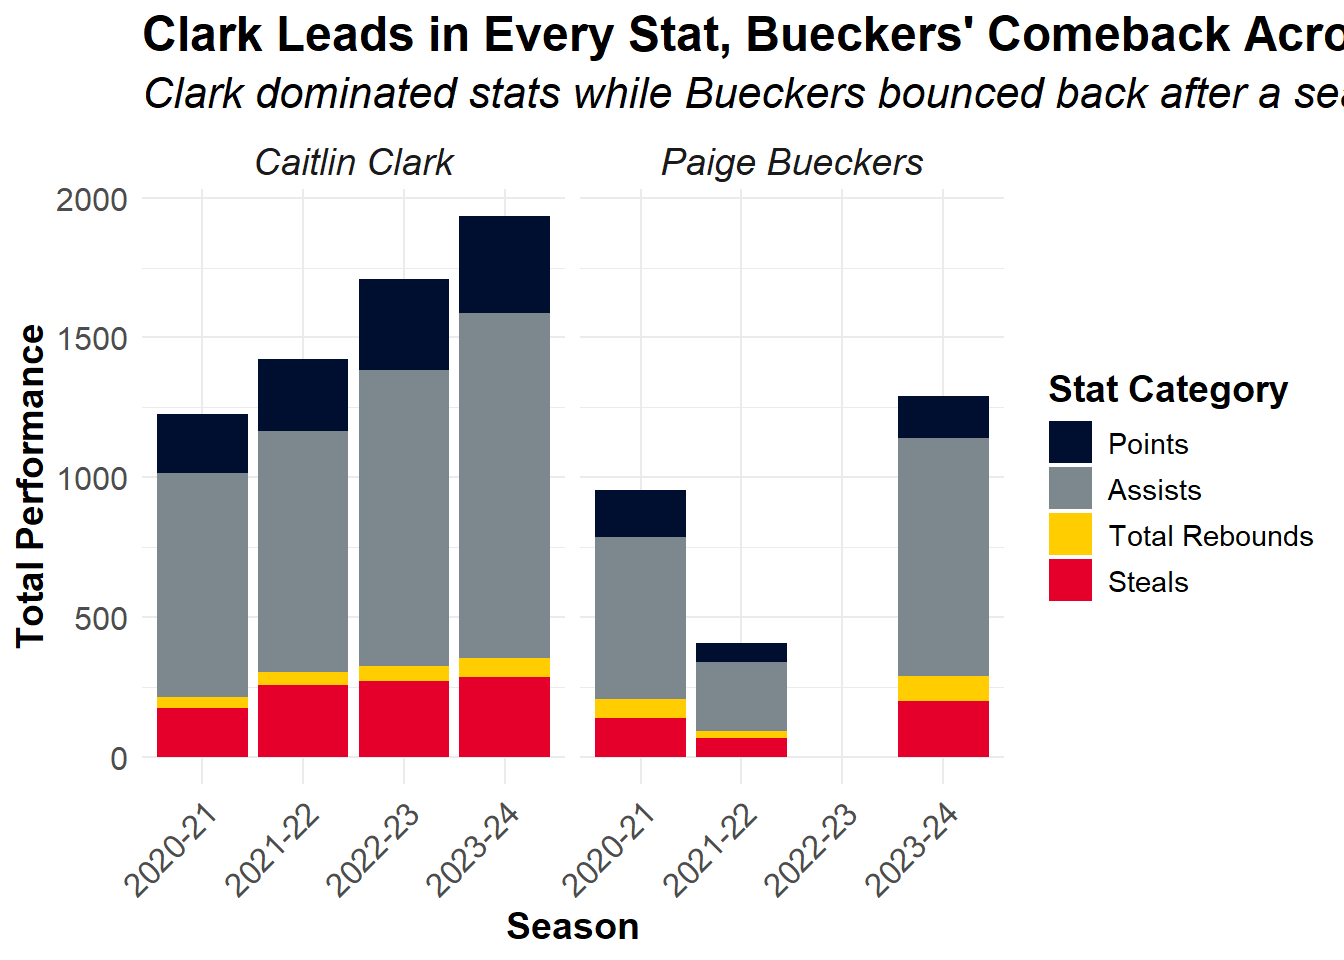
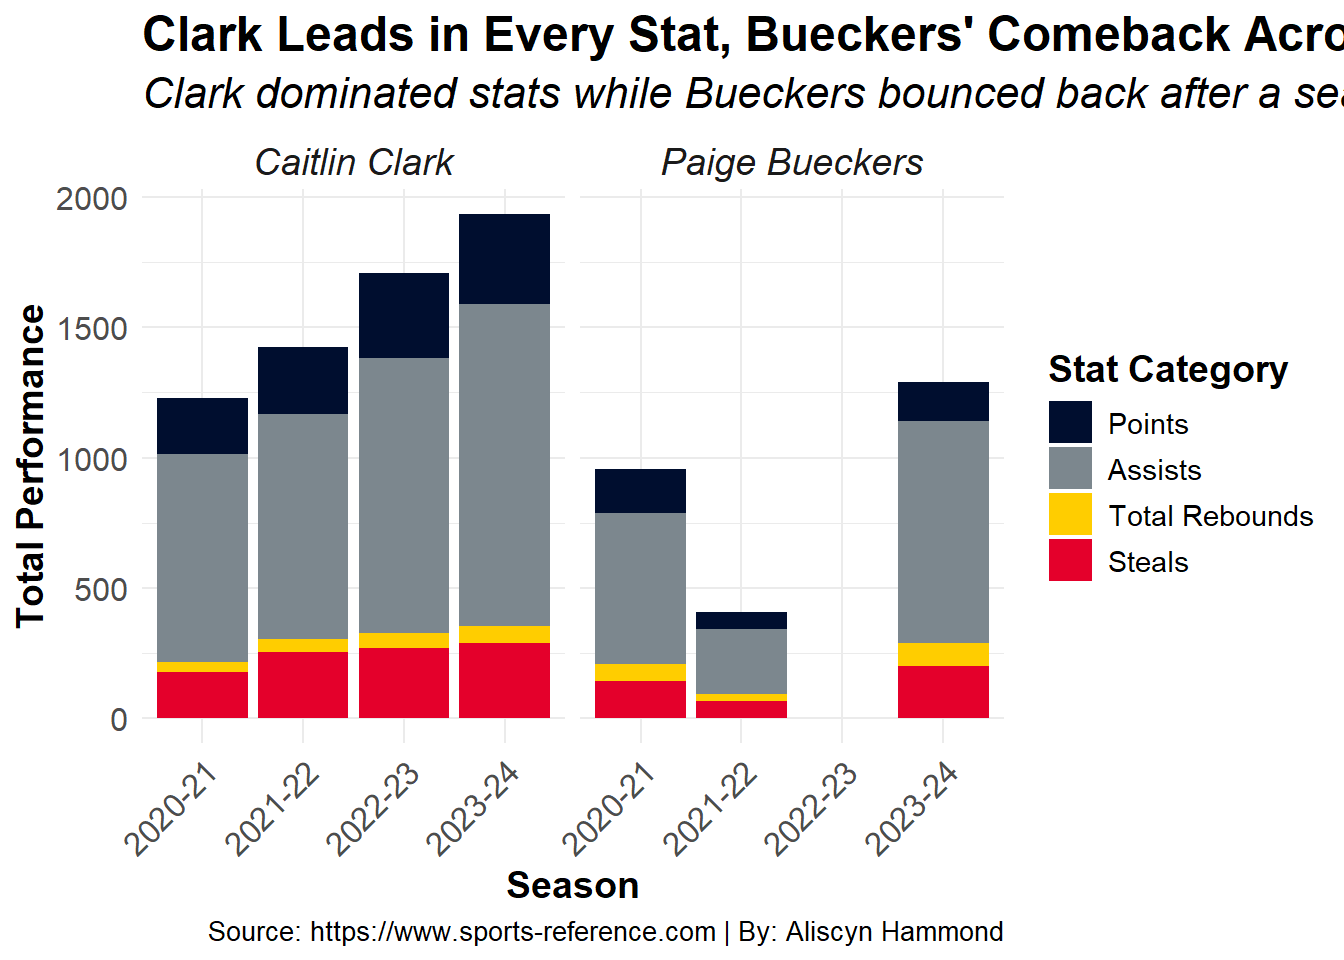
edit a couple things and made third graph

diff --git a/posts/paige_caitlin_basketball/index.html b/posts/paige_caitlin_basketball/index.html
@@ -255,29 +255,31 @@ pre > code.sourceCode > span > a:first-child::before { text-decoration: underlin
 <span id="cb2-7"><a href="#cb2-7" aria-hidden="true" tabindex="-1"></a>  <span class="fu">labs</span>(</span>
 <span id="cb2-8"><a href="#cb2-8" aria-hidden="true" tabindex="-1"></a>    <span class="at">title=</span><span class="st">"Clark Leads in Every Stat, Bueckers' Comeback Across the Board"</span>,</span>
 <span id="cb2-9"><a href="#cb2-9" aria-hidden="true" tabindex="-1"></a>    <span class="at">subtitle=</span><span class="st">"Clark dominated stats while Bueckers bounced back after a season off."</span>,</span>
-<span id="cb2-10"><a href="#cb2-10" aria-hidden="true" tabindex="-1"></a>    <span class="at">x=</span><span class="st">"Season"</span>,</span>
-<span id="cb2-11"><a href="#cb2-11" aria-hidden="true" tabindex="-1"></a>    <span class="at">y=</span><span class="st">"Total Performance"</span>,</span>
-<span id="cb2-12"><a href="#cb2-12" aria-hidden="true" tabindex="-1"></a>    <span class="at">fill=</span><span class="st">"Stat Category"</span></span>
-<span id="cb2-13"><a href="#cb2-13" aria-hidden="true" tabindex="-1"></a>  )<span class="sc">+</span></span>
-<span id="cb2-14"><a href="#cb2-14" aria-hidden="true" tabindex="-1"></a>  <span class="fu">scale_fill_manual</span>(<span class="at">values =</span> <span class="fu">c</span>(<span class="st">"PTS"</span> <span class="ot">=</span> <span class="st">"#7C878E"</span>,</span>
-<span id="cb2-15"><a href="#cb2-15" aria-hidden="true" tabindex="-1"></a>                                <span class="st">"AST"</span> <span class="ot">=</span> <span class="st">"#000e2f"</span>,</span>
-<span id="cb2-16"><a href="#cb2-16" aria-hidden="true" tabindex="-1"></a>                               <span class="st">"TRB"</span> <span class="ot">=</span> <span class="st">"#e4002b"</span>,</span>
-<span id="cb2-17"><a href="#cb2-17" aria-hidden="true" tabindex="-1"></a>                               <span class="st">"STL"</span> <span class="ot">=</span> <span class="st">"#FFCD00"</span>),</span>
-<span id="cb2-18"><a href="#cb2-18" aria-hidden="true" tabindex="-1"></a>                     <span class="at">labels =</span> <span class="fu">c</span>(<span class="st">"Points"</span> ,</span>
-<span id="cb2-19"><a href="#cb2-19" aria-hidden="true" tabindex="-1"></a>                                <span class="st">"Assists"</span>,</span>
-<span id="cb2-20"><a href="#cb2-20" aria-hidden="true" tabindex="-1"></a>                                <span class="st">"Total Rebounds"</span>,</span>
-<span id="cb2-21"><a href="#cb2-21" aria-hidden="true" tabindex="-1"></a>                                <span class="st">"Steals"</span>)) <span class="sc">+</span></span>
-<span id="cb2-22"><a href="#cb2-22" aria-hidden="true" tabindex="-1"></a>  <span class="fu">theme_minimal</span>()<span class="sc">+</span></span>
-<span id="cb2-23"><a href="#cb2-23" aria-hidden="true" tabindex="-1"></a>  <span class="fu">theme</span>(<span class="at">axis.text.x =</span><span class="fu">element_text</span>(<span class="at">angle=</span><span class="dv">45</span>,<span class="at">hjust=</span><span class="dv">1</span>),</span>
-<span id="cb2-24"><a href="#cb2-24" aria-hidden="true" tabindex="-1"></a>        <span class="at">plot.title =</span><span class="fu">element_text</span>(<span class="at">size=</span><span class="dv">18</span>,<span class="at">face=</span><span class="st">"bold"</span>),</span>
-<span id="cb2-25"><a href="#cb2-25" aria-hidden="true" tabindex="-1"></a>        <span class="at">plot.subtitle =</span><span class="fu">element_text</span>(<span class="at">size=</span><span class="dv">16</span>,<span class="at">face=</span><span class="st">"italic"</span>),</span>
-<span id="cb2-26"><a href="#cb2-26" aria-hidden="true" tabindex="-1"></a>        <span class="at">axis.title.x =</span><span class="fu">element_text</span>(<span class="at">size=</span><span class="dv">14</span>,<span class="at">face=</span><span class="st">"bold"</span>),</span>
-<span id="cb2-27"><a href="#cb2-27" aria-hidden="true" tabindex="-1"></a>        <span class="at">axis.title.y =</span><span class="fu">element_text</span>(<span class="at">size=</span><span class="dv">14</span>,<span class="at">face=</span><span class="st">"bold"</span>),</span>
-<span id="cb2-28"><a href="#cb2-28" aria-hidden="true" tabindex="-1"></a>        <span class="at">axis.text =</span><span class="fu">element_text</span>(<span class="at">size=</span><span class="dv">12</span>),</span>
-<span id="cb2-29"><a href="#cb2-29" aria-hidden="true" tabindex="-1"></a>        <span class="at">legend.text =</span><span class="fu">element_text</span>(<span class="at">size=</span><span class="dv">11</span>),</span>
-<span id="cb2-30"><a href="#cb2-30" aria-hidden="true" tabindex="-1"></a>        <span class="at">legend.title =</span><span class="fu">element_text</span>(<span class="at">size=</span><span class="dv">14</span>,<span class="at">face=</span><span class="st">"bold"</span>),</span>
-<span id="cb2-31"><a href="#cb2-31" aria-hidden="true" tabindex="-1"></a>        <span class="at">strip.text=</span><span class="fu">element_text</span>(<span class="at">size=</span><span class="dv">14</span>,<span class="at">face=</span><span class="st">"italic"</span>)</span>
-<span id="cb2-32"><a href="#cb2-32" aria-hidden="true" tabindex="-1"></a>  )</span></code><button title="Copy to Clipboard" class="code-copy-button"><i class="bi"></i></button></pre></div>
+<span id="cb2-10"><a href="#cb2-10" aria-hidden="true" tabindex="-1"></a>    <span class="at">caption=</span><span class="st">"Source: https://www.sports-reference.com | By: Aliscyn Hammond"</span>,</span>
+<span id="cb2-11"><a href="#cb2-11" aria-hidden="true" tabindex="-1"></a>    <span class="at">x=</span><span class="st">"Season"</span>,</span>
+<span id="cb2-12"><a href="#cb2-12" aria-hidden="true" tabindex="-1"></a>    <span class="at">y=</span><span class="st">"Total Performance"</span>,</span>
+<span id="cb2-13"><a href="#cb2-13" aria-hidden="true" tabindex="-1"></a>    <span class="at">fill=</span><span class="st">"Stat Category"</span></span>
+<span id="cb2-14"><a href="#cb2-14" aria-hidden="true" tabindex="-1"></a>  )<span class="sc">+</span></span>
+<span id="cb2-15"><a href="#cb2-15" aria-hidden="true" tabindex="-1"></a>  <span class="fu">scale_fill_manual</span>(<span class="at">values =</span> <span class="fu">c</span>(<span class="st">"PTS"</span> <span class="ot">=</span> <span class="st">"#7C878E"</span>,</span>
+<span id="cb2-16"><a href="#cb2-16" aria-hidden="true" tabindex="-1"></a>                                <span class="st">"AST"</span> <span class="ot">=</span> <span class="st">"#000e2f"</span>,</span>
+<span id="cb2-17"><a href="#cb2-17" aria-hidden="true" tabindex="-1"></a>                               <span class="st">"TRB"</span> <span class="ot">=</span> <span class="st">"#e4002b"</span>,</span>
+<span id="cb2-18"><a href="#cb2-18" aria-hidden="true" tabindex="-1"></a>                               <span class="st">"STL"</span> <span class="ot">=</span> <span class="st">"#FFCD00"</span>),</span>
+<span id="cb2-19"><a href="#cb2-19" aria-hidden="true" tabindex="-1"></a>                     <span class="at">labels =</span> <span class="fu">c</span>(<span class="st">"Points"</span> ,</span>
+<span id="cb2-20"><a href="#cb2-20" aria-hidden="true" tabindex="-1"></a>                                <span class="st">"Assists"</span>,</span>
+<span id="cb2-21"><a href="#cb2-21" aria-hidden="true" tabindex="-1"></a>                                <span class="st">"Total Rebounds"</span>,</span>
+<span id="cb2-22"><a href="#cb2-22" aria-hidden="true" tabindex="-1"></a>                                <span class="st">"Steals"</span>)) <span class="sc">+</span></span>
+<span id="cb2-23"><a href="#cb2-23" aria-hidden="true" tabindex="-1"></a>  <span class="fu">theme_minimal</span>()<span class="sc">+</span></span>
+<span id="cb2-24"><a href="#cb2-24" aria-hidden="true" tabindex="-1"></a>  <span class="fu">theme</span>(<span class="at">axis.text.x =</span><span class="fu">element_text</span>(<span class="at">angle=</span><span class="dv">45</span>,<span class="at">hjust=</span><span class="dv">1</span>),</span>
+<span id="cb2-25"><a href="#cb2-25" aria-hidden="true" tabindex="-1"></a>        <span class="at">plot.title =</span><span class="fu">element_text</span>(<span class="at">size=</span><span class="dv">18</span>,<span class="at">face=</span><span class="st">"bold"</span>),</span>
+<span id="cb2-26"><a href="#cb2-26" aria-hidden="true" tabindex="-1"></a>        <span class="at">plot.subtitle =</span><span class="fu">element_text</span>(<span class="at">size=</span><span class="dv">16</span>,<span class="at">face=</span><span class="st">"italic"</span>),</span>
+<span id="cb2-27"><a href="#cb2-27" aria-hidden="true" tabindex="-1"></a>        <span class="at">axis.title.x =</span><span class="fu">element_text</span>(<span class="at">size=</span><span class="dv">14</span>,<span class="at">face=</span><span class="st">"bold"</span>),</span>
+<span id="cb2-28"><a href="#cb2-28" aria-hidden="true" tabindex="-1"></a>        <span class="at">axis.title.y =</span><span class="fu">element_text</span>(<span class="at">size=</span><span class="dv">14</span>,<span class="at">face=</span><span class="st">"bold"</span>),</span>
+<span id="cb2-29"><a href="#cb2-29" aria-hidden="true" tabindex="-1"></a>        <span class="at">axis.text =</span><span class="fu">element_text</span>(<span class="at">size=</span><span class="dv">12</span>),</span>
+<span id="cb2-30"><a href="#cb2-30" aria-hidden="true" tabindex="-1"></a>        <span class="at">legend.text =</span><span class="fu">element_text</span>(<span class="at">size=</span><span class="dv">11</span>),</span>
+<span id="cb2-31"><a href="#cb2-31" aria-hidden="true" tabindex="-1"></a>        <span class="at">legend.title =</span><span class="fu">element_text</span>(<span class="at">size=</span><span class="dv">14</span>,<span class="at">face=</span><span class="st">"bold"</span>),</span>
+<span id="cb2-32"><a href="#cb2-32" aria-hidden="true" tabindex="-1"></a>        <span class="at">strip.text=</span><span class="fu">element_text</span>(<span class="at">size=</span><span class="dv">14</span>,<span class="at">face=</span><span class="st">"italic"</span>),</span>
+<span id="cb2-33"><a href="#cb2-33" aria-hidden="true" tabindex="-1"></a>        <span class="at">plot.caption =</span> <span class="fu">element_text</span>(<span class="at">size =</span> <span class="dv">10</span>, <span class="at">hjust =</span> <span class="dv">1</span>)</span>
+<span id="cb2-34"><a href="#cb2-34" aria-hidden="true" tabindex="-1"></a>  )</span></code><button title="Copy to Clipboard" class="code-copy-button"><i class="bi"></i></button></pre></div>
 </details>
 <div class="cell-output-display">
 <div>
@@ -288,6 +290,42 @@ pre > code.sourceCode > span > a:first-child::before { text-decoration: underlin
 </div>
 </div>
 <p>##Contribution of (blank)</p>
+<div class="cell">
+<details class="code-fold">
+<summary>Code</summary>
+<div class="sourceCode cell-code" id="cb3"><pre class="sourceCode r code-with-copy"><code class="sourceCode r"><span id="cb3-1"><a href="#cb3-1" aria-hidden="true" tabindex="-1"></a><span class="fu">ggplot</span>(pc,<span class="fu">aes</span>(<span class="at">x=</span>PTS,<span class="at">y=</span>FG.,<span class="at">size=</span>TRB,<span class="at">color=</span>Player))<span class="sc">+</span></span>
+<span id="cb3-2"><a href="#cb3-2" aria-hidden="true" tabindex="-1"></a>  <span class="fu">geom_point</span>(<span class="at">alpha=</span>.<span class="dv">6</span>)<span class="sc">+</span></span>
+<span id="cb3-3"><a href="#cb3-3" aria-hidden="true" tabindex="-1"></a>  <span class="fu">scale_size_continuous</span>(<span class="at">range=</span><span class="fu">c</span>(<span class="dv">2</span>,<span class="dv">10</span>))<span class="sc">+</span></span>
+<span id="cb3-4"><a href="#cb3-4" aria-hidden="true" tabindex="-1"></a>  <span class="fu">labs</span>(</span>
+<span id="cb3-5"><a href="#cb3-5" aria-hidden="true" tabindex="-1"></a>    <span class="at">x=</span><span class="st">"Points Per Game(PPG)"</span>,</span>
+<span id="cb3-6"><a href="#cb3-6" aria-hidden="true" tabindex="-1"></a>    <span class="at">y=</span><span class="st">"Shooting Efficiency(FG%)"</span>,</span>
+<span id="cb3-7"><a href="#cb3-7" aria-hidden="true" tabindex="-1"></a>    <span class="at">title=</span><span class="st">"Bueckers’ Higher Efficiency Outshines Clark’s Scoring Surge"</span>,</span>
+<span id="cb3-8"><a href="#cb3-8" aria-hidden="true" tabindex="-1"></a>    <span class="at">subtitle=</span><span class="st">"Bueckers focused on refining her shooting accuracy, whereas Clark boosted her points per game."</span>,</span>
+<span id="cb3-9"><a href="#cb3-9" aria-hidden="true" tabindex="-1"></a>    <span class="at">caption=</span><span class="st">"Source: https://www.sports-reference.com | By: Aliscyn Hammond"</span></span>
+<span id="cb3-10"><a href="#cb3-10" aria-hidden="true" tabindex="-1"></a>  )<span class="sc">+</span></span>
+<span id="cb3-11"><a href="#cb3-11" aria-hidden="true" tabindex="-1"></a>  <span class="fu">scale_color_manual</span>(<span class="at">values=</span><span class="fu">c</span>(<span class="st">"Paige Bueckers"</span> <span class="ot">=</span><span class="st">"#e4002b"</span>,</span>
+<span id="cb3-12"><a href="#cb3-12" aria-hidden="true" tabindex="-1"></a>                              <span class="st">"Caitlin Clark"</span><span class="ot">=</span><span class="st">"#FFCD00"</span>))<span class="sc">+</span></span>
+<span id="cb3-13"><a href="#cb3-13" aria-hidden="true" tabindex="-1"></a>  <span class="fu">theme_minimal</span>() <span class="sc">+</span></span>
+<span id="cb3-14"><a href="#cb3-14" aria-hidden="true" tabindex="-1"></a>  <span class="fu">theme</span>(</span>
+<span id="cb3-15"><a href="#cb3-15" aria-hidden="true" tabindex="-1"></a>    <span class="at">plot.title =</span> <span class="fu">element_text</span>(<span class="at">size =</span> <span class="dv">18</span>, <span class="at">face =</span> <span class="st">"bold"</span>),</span>
+<span id="cb3-16"><a href="#cb3-16" aria-hidden="true" tabindex="-1"></a>    <span class="at">plot.subtitle =</span> <span class="fu">element_text</span>(<span class="at">size =</span> <span class="dv">15</span>, <span class="at">face =</span> <span class="st">"italic"</span>),</span>
+<span id="cb3-17"><a href="#cb3-17" aria-hidden="true" tabindex="-1"></a>    <span class="at">axis.title.x =</span> <span class="fu">element_text</span>(<span class="at">size =</span> <span class="dv">12</span>),</span>
+<span id="cb3-18"><a href="#cb3-18" aria-hidden="true" tabindex="-1"></a>    <span class="at">axis.title.y =</span> <span class="fu">element_text</span>(<span class="at">size =</span> <span class="dv">12</span>),</span>
+<span id="cb3-19"><a href="#cb3-19" aria-hidden="true" tabindex="-1"></a>    <span class="at">axis.text.x =</span> <span class="fu">element_text</span>(<span class="at">size =</span> <span class="dv">11</span>, <span class="at">hjust =</span> <span class="dv">1</span>),</span>
+<span id="cb3-20"><a href="#cb3-20" aria-hidden="true" tabindex="-1"></a>    <span class="at">axis.text.y =</span> <span class="fu">element_text</span>(<span class="at">size =</span> <span class="dv">11</span>),</span>
+<span id="cb3-21"><a href="#cb3-21" aria-hidden="true" tabindex="-1"></a>    <span class="at">legend.title =</span> <span class="fu">element_text</span>(<span class="at">size =</span> <span class="dv">14</span>, <span class="at">face =</span> <span class="st">"bold"</span>),</span>
+<span id="cb3-22"><a href="#cb3-22" aria-hidden="true" tabindex="-1"></a>    <span class="at">legend.text =</span> <span class="fu">element_text</span>(<span class="at">size =</span> <span class="dv">12</span>),</span>
+<span id="cb3-23"><a href="#cb3-23" aria-hidden="true" tabindex="-1"></a>    <span class="at">plot.caption =</span> <span class="fu">element_text</span>(<span class="at">size =</span> <span class="dv">10</span>, <span class="at">hjust =</span> <span class="dv">1</span>)</span>
+<span id="cb3-24"><a href="#cb3-24" aria-hidden="true" tabindex="-1"></a>  )</span></code><button title="Copy to Clipboard" class="code-copy-button"><i class="bi"></i></button></pre></div>
+</details>
+<div class="cell-output-display">
+<div>
+<figure class="figure">
+<p><img src="index_files/figure-html/unnamed-chunk-4-1.png" class="img-fluid figure-img" width="672"></p>
+</figure>
+</div>
+</div>
+</div>
 
 
 </section>

diff --git a/index.html b/index.html
@@ -210,7 +210,7 @@ window.Quarto = {
 
 <div class="quarto-listing quarto-listing-container-default" id="listing-listing">
 <div class="list quarto-listing-default">
-<div class="quarto-post image-right" data-index="0" data-categories="YmFza2V0YmFsbCx3b21lbiBzcG9ydHMsY29sbGVnZSBzcG9ydHM=" data-listing-date-sort="1733724000000" data-listing-file-modified-sort="1733544887942" data-listing-date-modified-sort="NaN" data-listing-reading-time-sort="4" data-listing-word-count-sort="672">
+<div class="quarto-post image-right" data-index="0" data-categories="YmFza2V0YmFsbCx3b21lbiBzcG9ydHMsY29sbGVnZSBzcG9ydHM=" data-listing-date-sort="1733724000000" data-listing-file-modified-sort="1733546684178" data-listing-date-modified-sort="NaN" data-listing-reading-time-sort="5" data-listing-word-count-sort="880">
 <div class="thumbnail">
 <p><a href="./posts/paige_caitlin_basketball/index.html" class="no-external"></a></p><a href="./posts/paige_caitlin_basketball/index.html" class="no-external">
 <p><img loading="lazy" src="./posts/paige_caitlin_basketball/image.png" class="thumbnail-image"></p>
